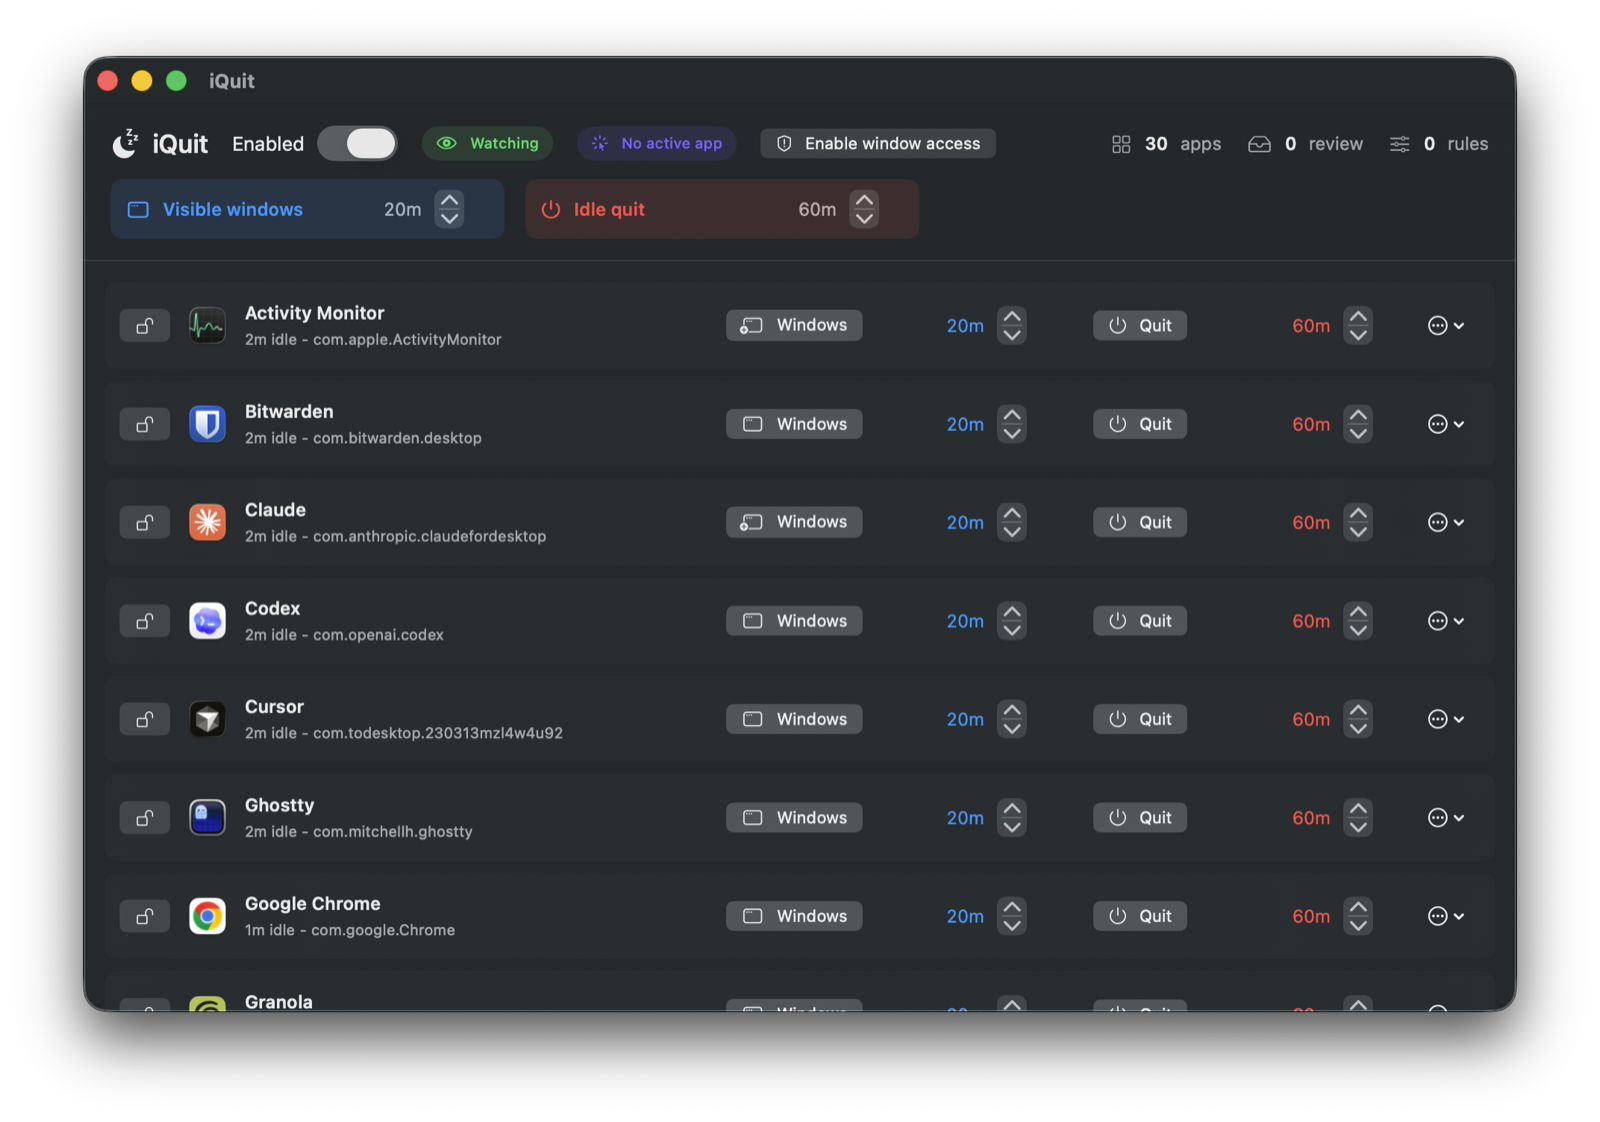
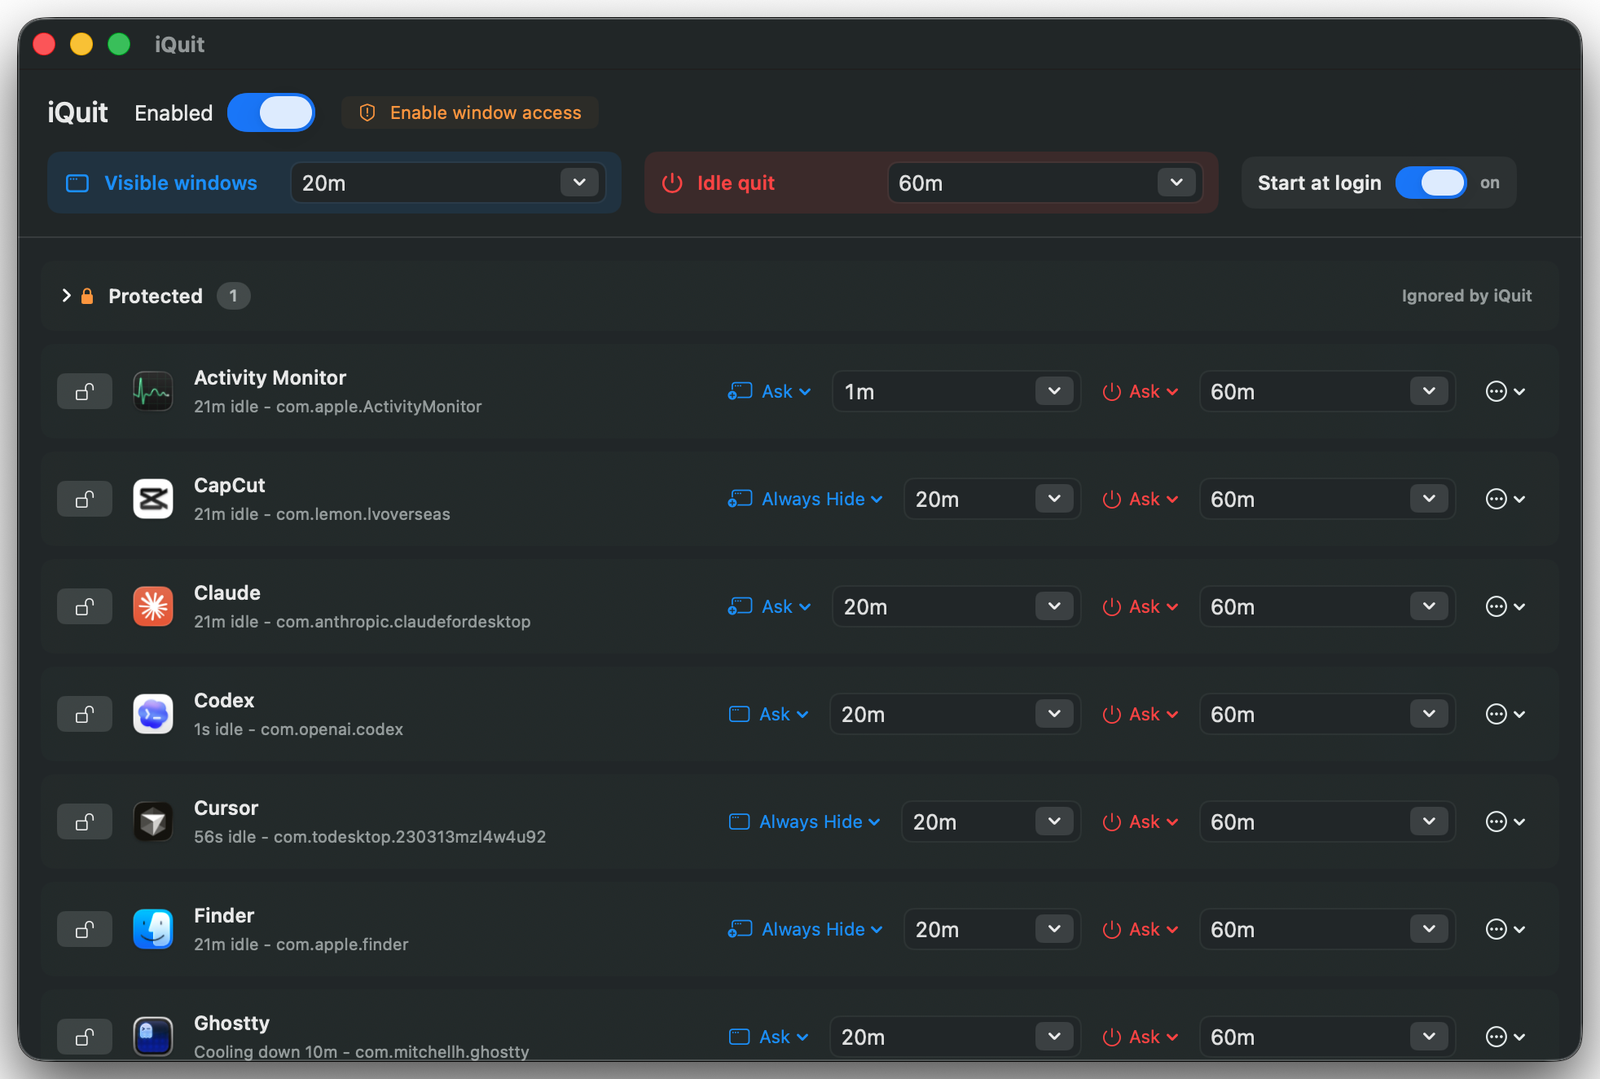
Refresh README screenshots

diff --git a/README.md b/README.md
@@ -54,13 +54,13 @@ Window Access is optional. When granted, iQuit can minimize individual windows. 
 
 ## Screenshots
 
+The menu bar popover shows the next apps likely to need attention, without listing everything on your Mac.
+
+![iQuit menu bar popover](docs/images/menu-bar.png)
+
 The dashboard keeps the two cleanup systems separate: blue for visible-window cleanup, red for idle quit.
 
 ![iQuit dashboard](docs/images/dashboard.png)
-
-First launch explains the defaults, protected apps, and optional Accessibility access.
-
-![iQuit onboarding](docs/images/onboarding.png)
 
 ## Features
 
